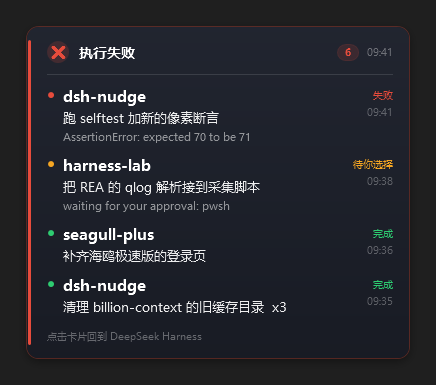
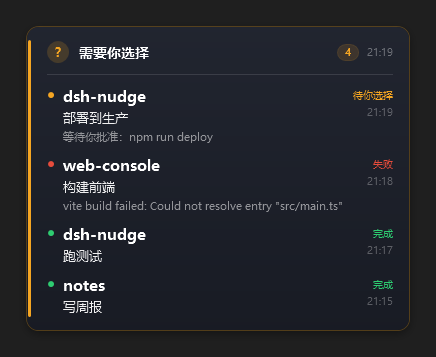
docs: README 加截图区，清单快照改成 selftest 生成
- 新增 ## 截图：三态并排，另在「视觉与排版」放上 4 条合并的清单图与 300 / 520 两种宽度。
  图都是 selftest 用同一个 WPF 渲染器画的快照，不是效果图。
- selftest 的快照组合新增 multi（4 条 / 3 个项目），进像素基线；自测 99 -> 103（--no-live 93）。
- 删掉旧版式的手工图 single.png / single-choice.png / single-done.png，VERIFY 的截图清单同步改写。

diff --git a/VERIFY.md b/VERIFY.md
@@ -15,14 +15,14 @@ $node = "$env:USERPROFILE\.dsh\dsh-runtimes\dsh-primary-runtime\dependencies\nod
 
 ```powershell
 & $node --check .\lib\index.js
-& $node .\scripts\selftest.mjs              # 99 项，含真起 helper 与双卡抢槽位
-& $node .\scripts\selftest.mjs --no-live    # 89 项，跳过需要交互桌面的两段（CI 跑这个）
+& $node .\scripts\selftest.mjs              # 103 项，含真起 helper 与双卡抢槽位
+& $node .\scripts\selftest.mjs --no-live    # 93 项，跳过需要交互桌面的两段（CI 跑这个）
 ```
 
 期望：
 
 - `node --check` 无输出、退出码 0。
-- selftest 输出 `ALL PASS (99 checks)`，退出码 0。
+- selftest 输出 `ALL PASS (103 checks)`，退出码 0。
 
 证据（实测）：
 
@@ -31,7 +31,7 @@ PASS  helper 回报 shown  --  [{"width":412,"height":164,"type":"shown","slot":
 PASS  卡片在屏幕右下半区  --  left=2132, top=1212, 412x164
 PASS  dispose 后 helper 退出（无孤儿）  --  exitCode=null, signalCode=SIGTERM
 PASS  基线 completed 对得上  --  436x174 色 263/263 暗 72874/72874 亮 933/933 状态 352/352
-ALL PASS (99 checks)
+ALL PASS (103 checks)
 ```
 
 其中坐标是硬证据：屏幕 2560×1440、工作区高 1392、卡片 412 宽 164 高 →
@@ -39,7 +39,7 @@ ALL PASS (99 checks)
 
 ## 1.5 快照基线与 CI（不需要屏幕）
 
-- `tools/snapshot-baseline.json` 存着三态与两种宽度的像素统计（宽高 + `distinct` / `dark` / `text` / `accent`）。
+- `tools/snapshot-baseline.json` 存着三态、清单（`multi`，4 条 / 3 个项目）与两种宽度的像素统计（宽高 + `distinct` / `dark` / `text` / `accent`）。
   selftest 每次渲染完就跟它比：**宽高必须完全一致**，像素计数允许 ±2%（不同机器字体抗锯齿会有几个像素出入）。
 - 改了版式、确认新样子是对的之后，跑一次 `& $node .\scripts\selftest.mjs --update-baseline` 重写基线；
   忘了更新就会红，而不是让 README / VERIFY 里的数字自己漂。
@@ -53,7 +53,7 @@ ALL PASS (99 checks)
 & $node .\scripts\selftest.mjs   # 已经包含这一步，产物在 screenshots\*.png
 ```
 
-期望：`completed.png` 436×174、`needs_choice.png` 436×291、`failed.png` 436×152（436 = 卡片 412 宽 + 两侧各 12px 底色留白；底边同样 12px），均 >4KB。
+期望：`completed.png` 436×174、`needs_choice.png` 436×291、`failed.png` 436×152、`multi.png` 436×357（4 条 / 3 个项目）（436 = 卡片 412 宽 + 两侧各 12px 底色留白；底边同样 12px），均 >4KB。
 
 ## 2.5 窗口可拖动 / 可缩放
 
@@ -82,7 +82,10 @@ ALL PASS (99 checks)
 - 右键只关闭：不调用 `Focus-Ds`、不写剪贴板，也不激活窗口（`WS_EX_NOACTIVATE`）。
 - 标题上限：任务名按 `TITLE_LIMIT = 42` 截断（带 `…`），标题区 `MaxHeight = 63`（三行）。实测 42 字标题在 384 宽排两行、在最小 260 宽排三行，文字最右 281 < 内沿 285，三行都能完整显示。
 - 停留时长：默认 `staySeconds = 15`（原来的 8 秒实测"还没看完就没了"），`stayFor()` 里条目越多越久（+2 秒/条），「需要你选择」再乘三且不少于 30 秒。实测：完成单条 15 秒、完成 3 条 19 秒、失败 2 条 17 秒、待选择单条 45 秒、待选择 4 条 63 秒。鼠标移进卡片会重置计时，右键随时关掉。
-- 快照校验：`screenshots/multi.png` 436×385（4 条 / 3 个项目）、`screenshots/single.png` 436×230（失败单条）、`screenshots/single-choice.png` 436×216（待批准单条）、`screenshots/single-done.png` 436×202（完成单条）。字号层级（`popup.ps1` 常量）：单条 = 项目 15.5 SemiBold → 任务名 12.5 → 原因 10.5；清单每条 = 项目 15 SemiBold → 任务名 12.5 → 明细 10.5。项目名前面**没有图标字形**：原来那处是 Segoe MDL2 Assets 的 `0xE8B7` 文件夹字，10.5-11px 下看起来就是个方块，已整段删除，省下的 16px 归给名字的截断宽度。
+- 快照校验：`screenshots/` 里六张图全部由 selftest 用**同一个** WPF 渲染器离屏画出、并逐张与基线比对——
+  `completed.png` 436×174、`needs_choice.png` 436×291、`failed.png` 436×152、`multi.png` 436×357（4 条 / 3 个项目，README 里当「合并且逐条可读」的样子）、
+  `width-300.png` 352×305、`width-520.png` 572×291。更早那批手工渲染的 `single*.png`（旧版式、带文件夹图标）已删除，避免图与版式各说一套。
+  字号层级（`popup.ps1` 常量）：单条 = 项目 15.5 SemiBold → 任务名 12.5 → 原因 10.5；清单每条 = 项目 15 SemiBold → 任务名 12.5 → 明细 10.5。项目名前面**没有图标字形**：原来那处是 Segoe MDL2 Assets 的 `0xE8B7` 文件夹字，10.5-11px 下看起来就是个方块，已整段删除，省下的 16px 归给名字的截断宽度。
 
 ## 2.7 单卡互斥与关窗回报（不需要屏幕）
 

diff --git a/CHANGELOG.md b/CHANGELOG.md
@@ -2,6 +2,15 @@
 
 本插件按语义化版本记录改动。日期为提交到 `main` 的时间。
 
+## 未发布
+**文档与测试**
+
+- README 加了截图区：三态并排、4 条提醒合并成一张清单、以及把卡片拖到 300 / 520 宽的样子。
+  这些图不是效果图——是 `selftest` 用**同一个** WPF 渲染器在离屏窗口里画出来的快照，和真实弹出来的是同一套代码。
+- `screenshots/multi.png` 改成由 selftest 生成（新增 `multi` 快照：4 条提醒 / 3 个项目），并进像素基线；
+  删掉三张旧版式的手工图 `single.png` / `single-choice.png` / `single-done.png`，免得图与版式各说一套。
+- 自测项 99 → 103（`--no-live` 时 93）：清单快照的「渲染成功 / 尺寸合理 / 不是空白图」三条，加一条基线比对。
+
 ## 0.3.2 - 2026-10-26
 **工程与测试**
 
